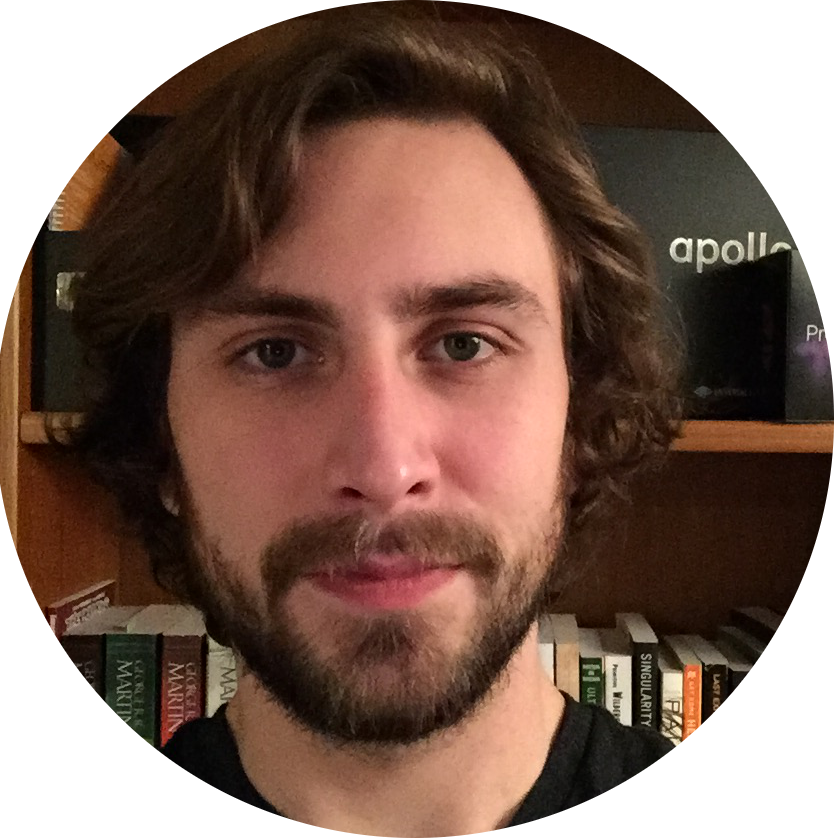
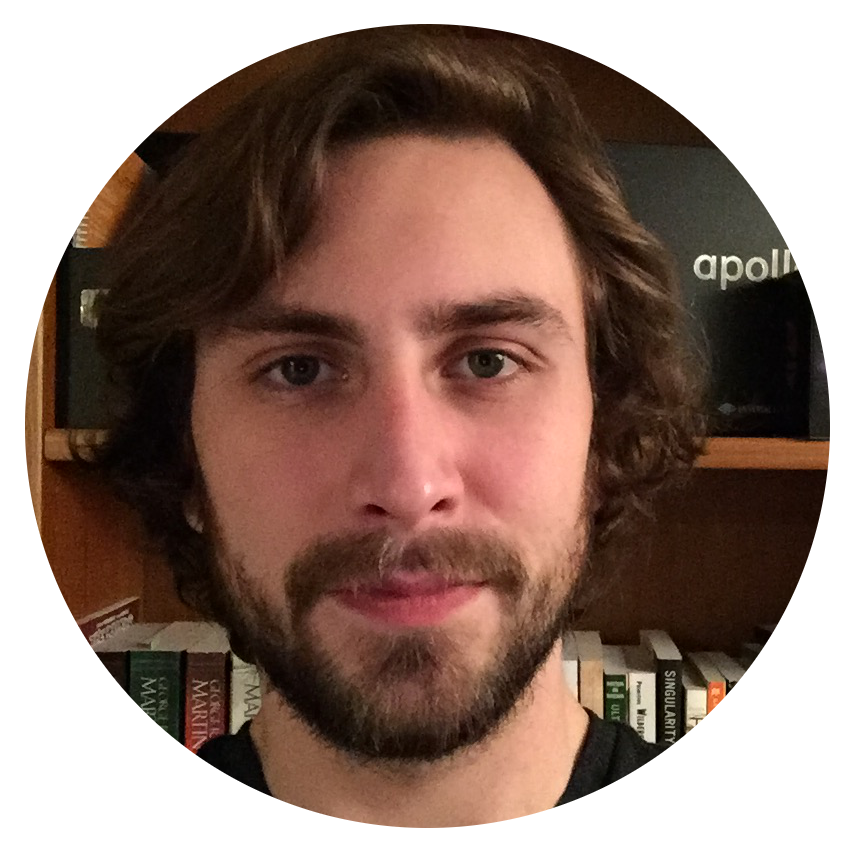
added new headshots to meet the crew section and put website in ready state. Waiting for client approval

diff --git a/index.html b/index.html
@@ -76,10 +76,10 @@
       <div class="row">
         <div class="col-xs-3 col-xs-offset-1 align-center">
           <div class="headshot">
-            <span class="glyphicon glyphicon-time"></span>
+            <img class="headshot-photo" src="images/joe-headshot.png">
           </div>
           <h4 class="title white-text">Joe McNeill</h4>
-          <p class="content">Joe's path in audio engineering began as two distinct childhood passions--music and technology--collating into one.  From his early teens and on, the bulk of his experience has involved tracking and mixing music in location recording/project studio settings.  That said, he is no stranger to commercial studio environments and other various types of projects, as well.</p>
+          <p class="content">Joe's path in audio engineering began as two distinct childhood passions--music and technology--collating into one.  From his early teens and on, the bulk of his experience has involved tracking and mixing music in location recording/project studio settings.  That said, he is no stranger to commercial studio environments and other various types of projects.</p>
         </div>
         <div class="col-xs-4 align-center">
           <div class="headshot">
@@ -90,7 +90,7 @@
         </div>
         <div class="col-xs-3 align-center">
           <div class="headshot">
-            <span class="glyphicon glyphicon-time"></span>
+            <img class="headshot-photo glyphicon" src="images/mack-headshot.png">
           </div>
           <h4 class="title white-text">Mack Scott</h4>
           <p class="content">Mack attended McNally Smith College of Music, where he earned his A.A.S. in Recording Technology. He has worked on projects varying from Folk recording, to college-level language education programs. Whatever your needs may be, Mack probably has a reverb fitting for it.</p>

diff --git a/main.css b/main.css
@@ -81,6 +81,11 @@ ul {
 	border-top: 3vw solid transparent;
 	margin: 0 auto;
 }
+.headshot-photo {
+	width: 100%;
+	margin-top: -10vw;
+}
+
 .white-triangle {
 	width: 0;
 	height: 0;
